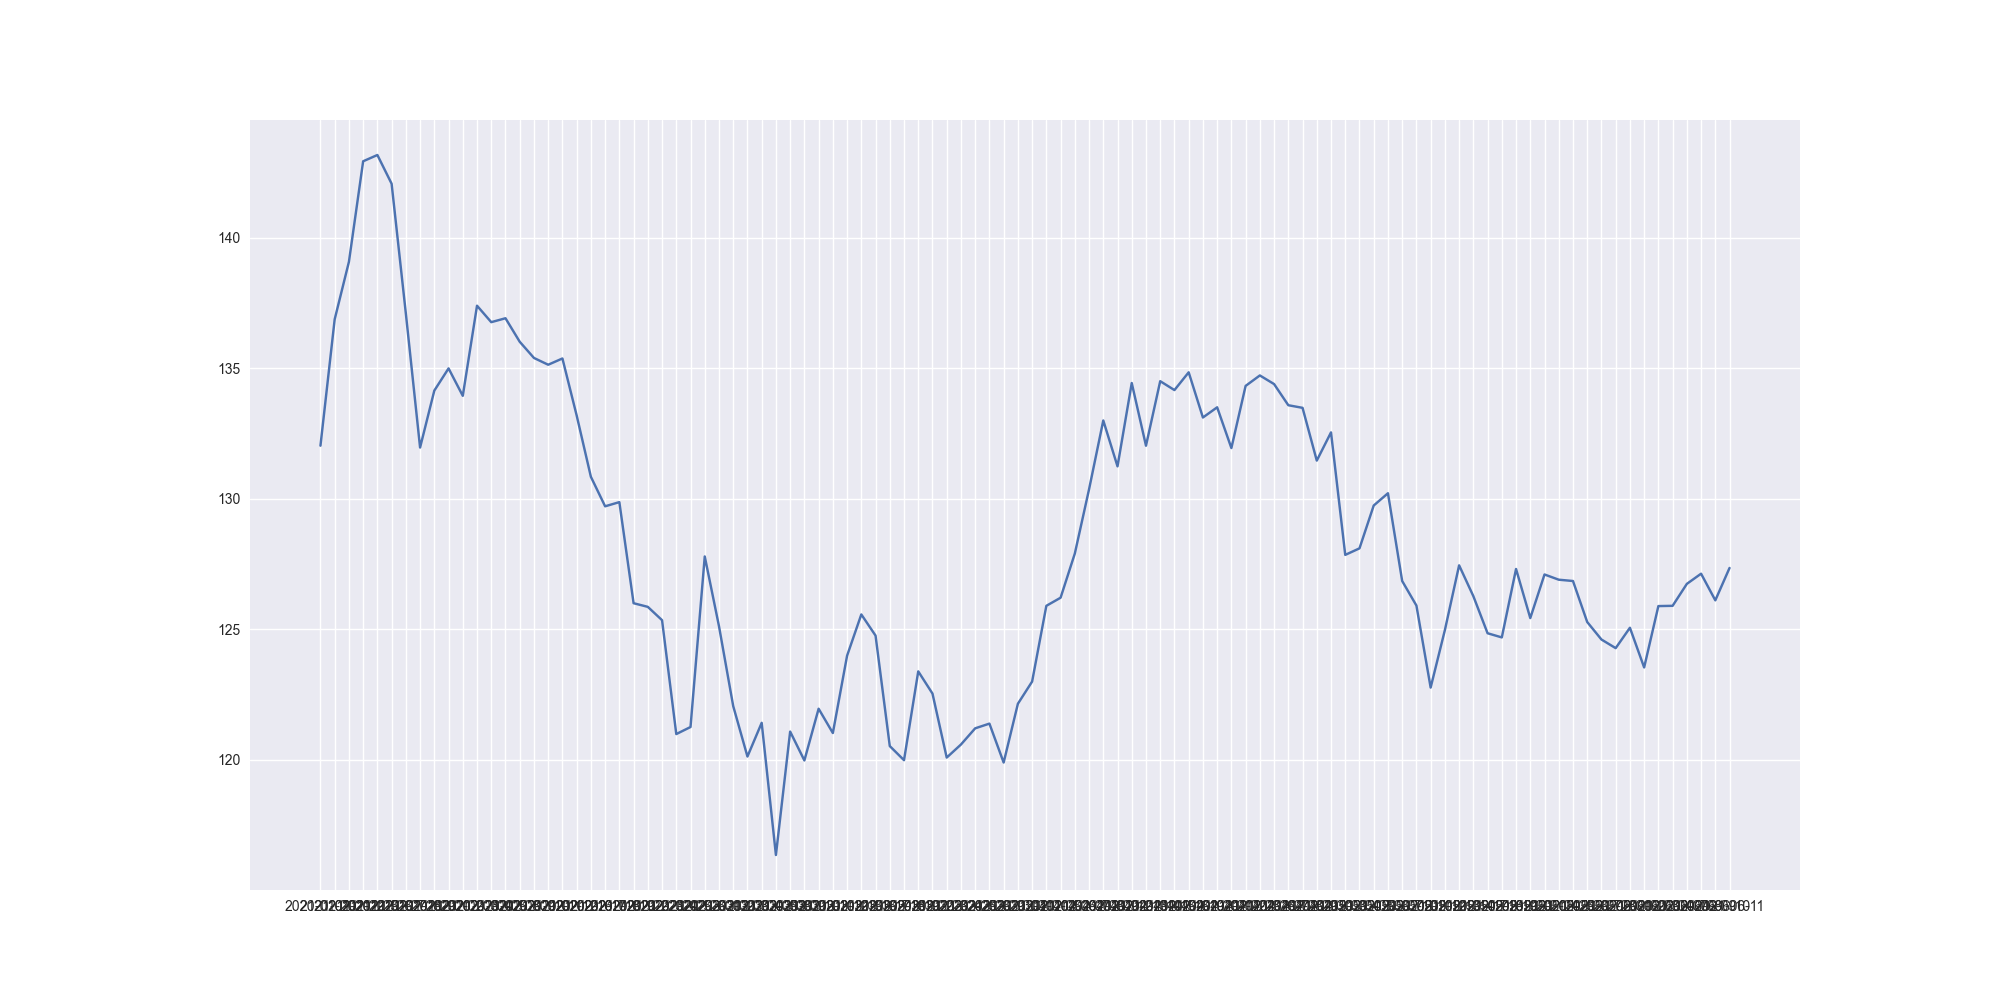
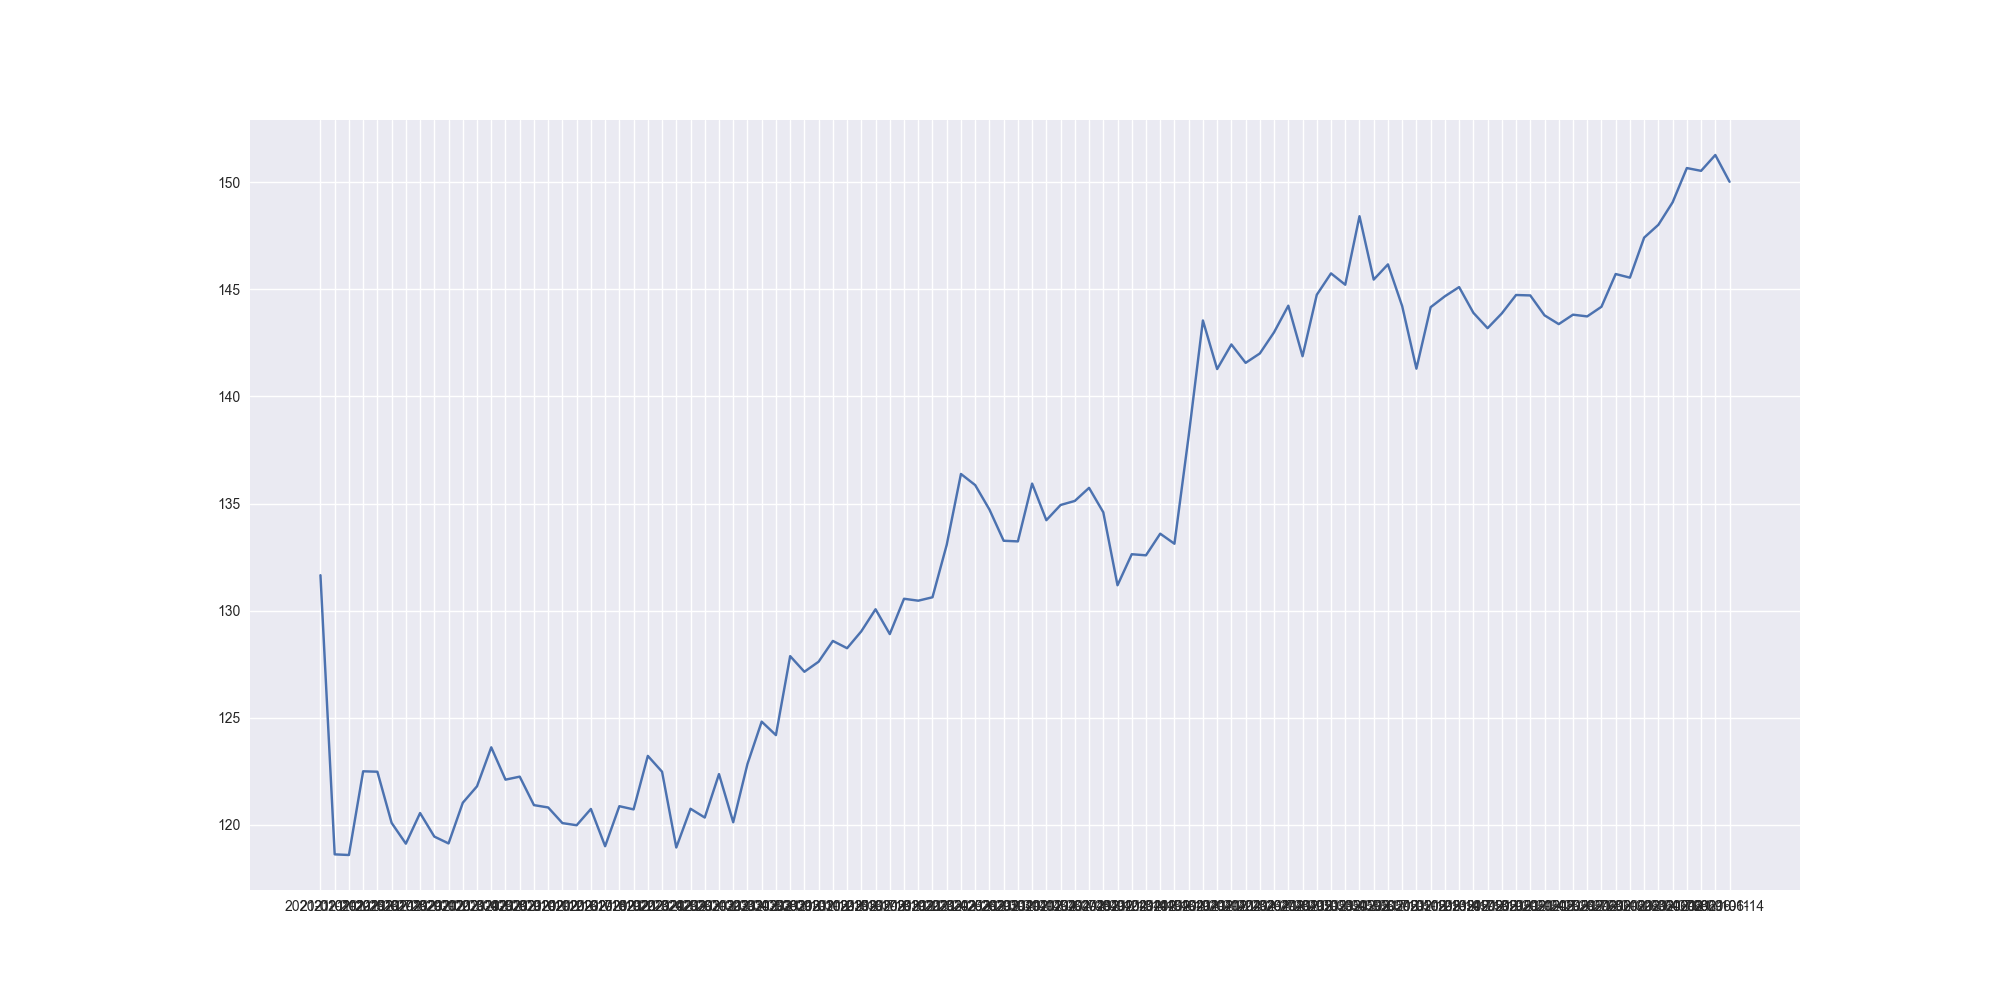
Error Resolution

diff --git a/app.js b/app.js
@@ -16,6 +16,8 @@ const https = require("https"); //works similarly like the axios module
 
 const bodyParser = require("body-parser"); //body-parser helps in prsing all the data to the backend which the user enters
 
+const {spawn} = require('child_process');
+
 var app = express();
 
 //without this piece of code boudyparser will not work
@@ -55,7 +57,7 @@ app.post("/", function(req, resp) {
     headers: {
       'User-Agent': 'request'
     }
-  }, (err, res, data) => {
+  }, (err, res, info) => {
     if (err) {
       console.log('Error:', err);
     } else if (res.statusCode !== 200) {
@@ -63,14 +65,28 @@ app.post("/", function(req, resp) {
     } else {
       // data is successfully parsed as a csv object:
       // console.log(data);
-      const subprocess = execa('python', ['./test.py', data]);
-      subprocess.stdout.pipe(process.stdout);
-      (async () => {
-    const {stdout} = await subprocess;
-    // Returning Result
-    console.log('child output:', stdout.toString());
-    resp.render("result");
-})();
+    //   const subprocess = execa('python', ['./test.py', data]);
+    //   subprocess.stdout.pipe(process.stdout);
+    //   (async () => {
+    // const {stdout} = await subprocess;
+
+    const python = spawn('python', ['test.py',info]);
+// collect data from script
+      python.stdout.on('data', function (data) {
+       console.log('Pipe data from python script ...');
+       dataToSend = data.toString();
+       console.log(dataToSend);
+      });
+      // in close event we are sure that stream from child process is closed
+      python.on('close', (code) => {
+      console.log(`child process close all stdio with code ${code}`);
+// send data to browser
+});
+
+
+
+    // // Returning Result
+    // console.log('child output:', stdout.toString()
 
       //if json to csv but data is already recieved in csv
       //------------------------------------------
@@ -87,5 +103,5 @@ app.post("/", function(req, resp) {
 
     }
   });
-
+resp.render("result");
 });

diff --git a/test.py b/test.py
@@ -85,14 +85,10 @@ for i in range(0, len(my_data_new.columns)):
 # Plotting work
 plt.style.use('seaborn')
 
-plt.figure(figsize=(20, 10))
-plt.plot(my_data_new.timestamp, my_data_new.close)
-plt.savefig('public/fig_closing_price.png')
-
 def mean_absolute_percentage_error(y_true, y_pred):
     return np.mean(np.abs((y_true - y_pred) / y_true)) * 100
 
-def plot_moving_average(series, window, plot_intervals=False, scale=1.96):
+def plot_moving_average(series, window, my_name, plot_intervals=False, scale=1.96):
 
     rolling_mean = series.rolling(window=window).mean()
 
@@ -113,38 +109,130 @@ def plot_moving_average(series, window, plot_intervals=False, scale=1.96):
     plt.legend(loc='best')
     plt.grid(True)
     plt.xticks(rotation = 90)
-    plt.savefig('public/fig_prediction.png')
+
+    file_name = "fig_prediction" + my_name + ".png"
+    plt.savefig("public/fig_prediction" + my_name + ".png")
     #plt.show()
 
     return rolling_mean
 
 # Smooth by the previous 5 days (by week)
-rolling_mean = plot_moving_average(my_data_new.close, 5, True)
+def my_prediction(x1, y1, x2, y2, X):
+    slope = (y2 - y1) / (x2 - x1)
+    y = y1 + slope * (X - x1)
+    return (y, slope)
 
-# prediction
+def mood(slope):
+    if(slope >= 0):
+        return "Up"
+    else:
+        return "Down"
+
+result_prediction = ""
+
+# CLOSING PRICE
+plt.figure(figsize=(20, 10))
+plt.plot(my_data_new.timestamp, my_data_new.close)
+plt.savefig('public/fig_closing_price.png')
+rolling_mean = plot_moving_average(my_data_new.close, 5, "closing", True)
+
 r,c = my_data_new.shape
 y2 = rolling_mean.iloc[-1]
 x2 = r-1
 y1 = rolling_mean.iloc[-2]
 x1 = r-2
 
-def prediction_closing_price(x1, y1, x2, y2, X = x2 + 1):
-    slope = (y2 - y1) / (x2 - x1)
-    y = y1 + slope * (X - x1)
-    return (y, slope)
+prediction, slope = my_prediction(x1, y1, x2, y2, x2+1)
 
-prediction, slope = prediction_closing_price(x1, y1, x2, y2)
+# adding the results to result_prediction
+result_prediction += str(prediction) + "%" + mood(slope) + "%"
+
+# OPENING PRICE
+plt.figure(figsize=(20, 10))
+plt.plot(my_data_new.timestamp, my_data_new.open)
+plt.savefig('public/fig_opening_price.png')
+rolling_mean = plot_moving_average(my_data_new.open, 5, "opening", True)
+
+r,c = my_data_new.shape
+y2 = rolling_mean.iloc[-1]
+x2 = r-1
+y1 = rolling_mean.iloc[-2]
+x1 = r-2
+
+prediction_tmp, slope = my_prediction(x1, y1, x2, y2, x2+1)
+
+# adding the results to result_prediction
+result_prediction += str(prediction) + "%" + mood(slope) + "%"
+
+# HIGH
+plt.figure(figsize=(20, 10))
+plt.plot(my_data_new.timestamp, my_data_new.high)
+plt.savefig('public/fig_high_price.png')
+rolling_mean = plot_moving_average(my_data_new.high, 5, "high", True)
+
+r,c = my_data_new.shape
+y2 = rolling_mean.iloc[-1]
+x2 = r-1
+y1 = rolling_mean.iloc[-2]
+x1 = r-2
+
+prediction, slope = my_prediction(x1, y1, x2, y2, x2+1)
+
+# adding the results to result_prediction
+result_prediction += str(prediction) + "%" + mood(slope) + "%"
+
+# LOW
+plt.figure(figsize=(20, 10))
+plt.plot(my_data_new.timestamp, my_data_new.low)
+plt.savefig('public/fig_low_price.png')
+rolling_mean = plot_moving_average(my_data_new.low, 5, "closing", True)
+
+r,c = my_data_new.shape
+y2 = rolling_mean.iloc[-1]
+x2 = r-1
+y1 = rolling_mean.iloc[-2]
+x1 = r-2
+
+prediction, slope = my_prediction(x1, y1, x2, y2, x2+1)
+
+# adding the results to result_prediction
+result_prediction += str(prediction) + "%" + mood(slope) + "%"
+
+# ADJUSTED PRICE
+plt.figure(figsize=(20, 10))
+plt.plot(my_data_new.timestamp, my_data_new.adjusted_close)
+plt.savefig('public/fig_adjusted_close_price.png')
+rolling_mean = plot_moving_average(my_data_new.close, 5, "adjusted_close", True)
+
+r,c = my_data_new.shape
+y2 = rolling_mean.iloc[-1]
+x2 = r-1
+y1 = rolling_mean.iloc[-2]
+x1 = r-2
+
+prediction, slope = my_prediction(x1, y1, x2, y2, x2+1)
+
+# adding the results to result_prediction
+result_prediction += str(prediction) + "%" + mood(slope) + "%"
+
+# VOLUME
+plt.figure(figsize=(20, 10))
+plt.plot(my_data_new.timestamp, my_data_new.volume)
+plt.savefig('public/fig_volume.png')
+rolling_mean = plot_moving_average(my_data_new.volume, 5, "volume", True)
+
+r,c = my_data_new.shape
+y2 = rolling_mean.iloc[-1]
+x2 = r-1
+y1 = rolling_mean.iloc[-2]
+x1 = r-2
+
+prediction, slope = my_prediction(x1, y1, x2, y2, x2+1)
+
+# adding the results to result_prediction
+result_prediction += str(prediction) + "%" + mood(slope)
 
 # returning the results
-
-market_mood = ""
-if(slope >= 0):
-    market_mood = "Up"
-else:
-    market_mood = "Down"
-
-result_string = str(prediction) + "%" + market_mood
-
-print(result_string)
+print(result_prediction)
 
 sys.stdout.flush
